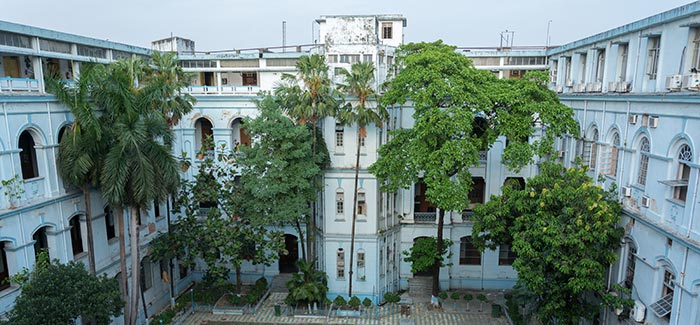
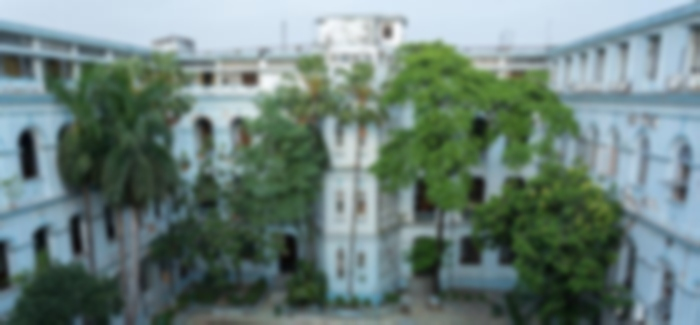
Changed theme

diff --git a/index.html b/index.html
@@ -4,12 +4,14 @@
     <meta charset="UTF-8">
     <meta http-equiv="X-UA-Compatible" content="IE=edge">
     <meta name="viewport" content="width=device-width, initial-scale=1.0">
-    <script src="https://cdn.tailwindcss.com"></script>
     <link rel="stylesheet" href="./style.css"></link>
+    <script src="https://cdn.tailwindcss.com"></script>
+    <script src="https://cdnjs.cloudflare.com/ajax/libs/Chart.js/3.7.1/chart.js"></script>
     <script src="./script.js"></script>
     <title>Solar Data Monitoring</title>
 </head>
 <body>
+  <div id="chart-view">
     <!-- navbar -->
     <header class="text-gray-600 body-font">
         <div class="container mx-auto flex flex-wrap p-5 flex-col md:flex-row items-center">
@@ -17,7 +19,7 @@
             <svg xmlns="http://www.w3.org/2000/svg" fill="none" stroke="currentColor" stroke-linecap="round" stroke-linejoin="round" stroke-width="2" class="w-10 h-10 text-white p-2 bg-indigo-500 rounded-full" viewBox="0 0 24 24">
               <path d="M12 2L2 7l10 5 10-5-10-5zM2 17l10 5 10-5M2 12l10 5 10-5"></path>
             </svg>
-            <span class="ml-3 text-xl">Tailblocks</span>
+            <span class="ml-3 text-xl">Solar Data Monitoring</span>
           </a>
           <nav class="md:ml-auto flex flex-wrap items-center text-base justify-center">
             <a class="mr-5 hover:text-gray-900">First Link</a>
@@ -32,45 +34,62 @@
           </button>
         </div>
       </header>
+
+      <!-- Charts -->
       <section class="text-gray-600 body-font">
         <div class="container px-5 py-24 mx-auto">
           <div class="flex flex-wrap -mx-4 -mb-10 text-center" id="flex-container">
             <div class="sm:w-1/2 mb-10 px-4">
               <canvas class="rounded-lg h-64 overflow-hidden chart" id="field--1">
               </canvas>
-              <h2 class="title-font text-2xl font-medium text-gray-900 mt-6 mb-3">Temperature</h2>
-              <p>Most Recent Value:</p>
+              <h2 class="title-font text-2xl font-medium text-white-900 mt-6 mb-3">Temperature</h2>
+              <div class="current" id="current--1">0.0</div>
             </div>
             <div class="sm:w-1/2 mb-10 px-4">
-              <div class="rounded-lg h-64 overflow-hidden">
-              </div>
-              <h2 class="title-font text-2xl font-medium text-gray-900 mt-6 mb-3">Humidity</h2>
-              <p>Most Recent Value:</p>
+              <canvas class="rounded-lg h-64 overflow-hidden chart" id="field--2">
+              </canvas>
+              <h2 class="title-font text-2xl font-medium text-white-900 mt-6 mb-3">Humidity</h2>
+              <div class="current" id="current--2">0.0</div>
             </div>
             <div class="sm:w-1/2 mb-10 px-4">
-                <div class="rounded-lg h-64 overflow-hidden">
-                  <canvas class="chart" id="field--3"></canvas>
-                </div>
-                <h2 class="title-font text-2xl font-medium text-gray-900 mt-6 mb-3">Voltage</h2>
-                <p>Most Recent Value:</p>
+              <canvas class="rounded-lg h-64 overflow-hidden chart" id="field--3">
+              </canvas>
+                <h2 class="title-font text-2xl font-medium text-white-900 mt-6 mb-3">Voltage</h2>
+                <div class="current" id="current--3">0.0</div>
               </div>
               <div class="sm:w-1/2 mb-10 px-4">
-                <div class="rounded-lg h-64 overflow-hidden">
-                  <canvas class="chart" id="field--4"></canvas>
-                </div>
-                <h2 class="title-font text-2xl font-medium text-gray-900 mt-6 mb-3">Current</h2>
-                <p>Most Recent Value:</p>
+                <canvas class="rounded-lg h-64 overflow-hidden chart" id="field--4">
+                </canvas>
+                <h2 class="title-font text-2xl font-medium text-white-900 mt-6 mb-3">Current</h2>
+                <div class="current" id="current--4">0.0</div>
               </div>
               <div class="sm:w-1/2 mb-10 px-4">
-                <div class="rounded-lg h-64 overflow-hidden">
-                  <canvas class="chart" id="field--5"></canvas>
-                </div>
-                <h2 class="title-font text-2xl font-medium text-gray-900 mt-6 mb-3">Power</h2>
-                <p>Most Recent Value:</p>
+                <canvas class="rounded-lg h-64 overflow-hidden chart" id="field--5">
+                </canvas>
+                <h2 class="title-font text-2xl font-medium text-white-900 mt-6 mb-3">Power</h2>
+                <div class="current" id="current--5">0.0</div>
               </div>
           </div>
         </div>
       </section>
-   
+    </div>
+    <div id="about">
+      <section class="text-gray-600 body-font">
+        <div class="container mx-auto flex px-5 py-24 md:flex-row flex-col items-center">
+          <div class="lg:flex-grow md:w-1/2 lg:pr-24 md:pr-16 flex flex-col md:items-start md:text-left mb-16 md:mb-0 items-center text-center">
+            <h1 class="title-font sm:text-4xl text-3xl mb-4 font-medium text-gray-900" id="name">Abhijeet Basak
+              <br class="hidden lg:inline-block" id="roll">Class roll no-421
+            </h1>
+            <p class="mb-8 leading-relaxed" id="desc">Lorem ipsum dolor sit amet consectetur adipisicing elit. Modi aperiam, vero quo iure vitae ipsa dicta in totam debitis, doloribus ipsum dolorum eligendi pariatur error facilis minima ex odit dolorem!</p>
+            <div class="flex justify-center">
+              <a class="inline-flex text-white bg-green-500 border-0 py-2 px-6 focus:outline-none hover:bg-blue-600 rounded-full text-lg" href="https://www.instagram.com/abhijeetbasak9/">Instagram</a>
+            </div>
+          </div>
+          <div class="lg:max-w-lg lg:w-full md:w-1/2 w-5/6" id = "img-container">
+            <img class="object-cover object-center rounded rounded-xl border-slate-800" alt="hero" src="./avatar.png">
+          </div>
+        </div>
+      </section>
+    </div>
 </body>
 </html>

diff --git a/script.js b/script.js
@@ -30,6 +30,12 @@ fetch(link1, {
             entry.push(value.field1);
             createdAt.push(value.created_at);
         });
+		var last = entry.length;
+		while(entry[last] == null)
+		{
+			last --;
+		}
+		document.getElementById('current--1').textContent = entry[last];
     const field1 = new Chart(ctx1, {
 		type: 'line',
 		data: {
@@ -88,14 +94,20 @@ fetch(link2, {
             entry.push(value.field2);
             createdAt.push(value.created_at);
         });
+		var last = entry.length;
+		while(entry[last] == null)
+		{
+			last --;
+		}
+		document.getElementById('current--2').textContent = entry[last];
     const ctx2 = document.getElementById('field--2').getContext('2d');
     const field2 = new Chart(ctx2, {
 		type: 'line',
 		data: {
-			labels: createdAt,
+			labels: createdAt.slice(-1000),
 			datasets: [{
 				label: 'Humidity',
-				data: entry,
+				data: entry.slice(-1000),
 				backgroundColor: [
 					'rgba(255, 99, 132, 0.2)',
 					'rgba(54, 162, 235, 0.2)',
@@ -150,16 +162,20 @@ fetch(link3, {
 		{
 			entry.pop()
 		}
-		console.log('Latest val');
-		console.log(entry)
+		var last = entry.length;
+		while(entry[last] == null)
+		{
+			last --;
+		}
+		document.getElementById('current--3').textContent = entry[last];
     const ctx3 = document.getElementById('field--3').getContext('2d');
     const field3 = new Chart(ctx3, {
 		type: 'line',
 		data: {
-			labels: createdAt,
+			labels: createdAt.slice(-1000),
 			datasets: [{
 				label: 'Voltage',
-				data: entry,
+				data: entry.slice(-1000),
 				backgroundColor: [
 					'rgba(255, 99, 132, 0.2)',
 					'rgba(54, 162, 235, 0.2)',
@@ -210,14 +226,20 @@ fetch(link4, {
             entry.push(value.field4);
             createdAt.push(value.created_at);
         });
+		var last = entry.length;
+		while(entry[last] == null)
+		{
+			last --;
+		}
+		document.getElementById('current--4').textContent = entry[last];
     const ctx4 = document.getElementById('field--4').getContext('2d');
     const field4 = new Chart(ctx4, {
 		type: 'line',
 		data: {
-			labels: createdAt,
+			labels: createdAt.slice(-1000),
 			datasets: [{
 				label: 'Current',
-				data: entry,
+				data: entry.slice(-1000),
 				backgroundColor: [
 					'rgba(255, 99, 132, 0.2)',
 					'rgba(54, 162, 235, 0.2)',
@@ -268,14 +290,20 @@ fetch(link5, {
             entry.push(value.field5);
             createdAt.push(value.created_at);
         });
+	var last = entry.length;
+	while(entry[last] == null)
+	{
+		last --;
+	}
+		document.getElementById('current--5').textContent = entry[last];
     const ctx5 = document.getElementById('field--5').getContext('2d');
     const field5 = new Chart(ctx5, {
 		type: 'line',
 		data: {
-			labels: createdAt,
+			labels: createdAt.slice(-1000),
 			datasets: [{
 				label: 'Active-Power',
-				data: entry,
+				data: entry.slice(-1000),
 				backgroundColor: [
 					'rgba(255, 99, 132, 0.2)',
 					'rgba(54, 162, 235, 0.2)',

diff --git a/style.css b/style.css
@@ -5,15 +5,31 @@
     }
 }
 
-body
+#chart-view
 { 
     background: linear-gradient(to bottom right, #56d0f5, #ad7b1d);
     background-repeat: no-repeat;
-    /* background: url('./bg.jpg');
-    backdrop-filter: blur(3px);
-    background-attachment: fixed;
+}
+
+#about
+{
+    background: url('./bg.jpg');
     background-position: center center;
-    background-size: cover;  */
+    background-size: cover; 
+
+}
+
+#name, #id
+{
+    color: white;
+    font-family: monospace;
+    font-size:40px;
+    font-weight: bold;
+}
+
+#desc
+{
+    color:white;
 }
 
 header
@@ -33,15 +49,23 @@ header
     box-shadow: 0 25px 45px rgb(0 0 0 / 20%);
 }
 
-p
+.current
 {
     padding: 5px;
     background: #fff;
     color: #111;
-    background: rgba(255, 255, 255, 0.8);
+    background: rgba(255, 255, 255, 0.4);
     border-radius: 15px;
-    margin-bottom: 20px;
+    margin-bottom: 15px;
     letter-spacing: 1px;
     outline: none;
-    border: 0.3px solid rgba(255, 255, 255, 0.582);
+    border: 0.3px solid rgba(255, 255, 255, 0.45);
+}
+
+canvas
+{
+    margin-top: 15px;
+    background: rgba(255, 255, 255, 0.4);
+    backdrop-filter: blur(1px);  
+    width: 100%;
 }
